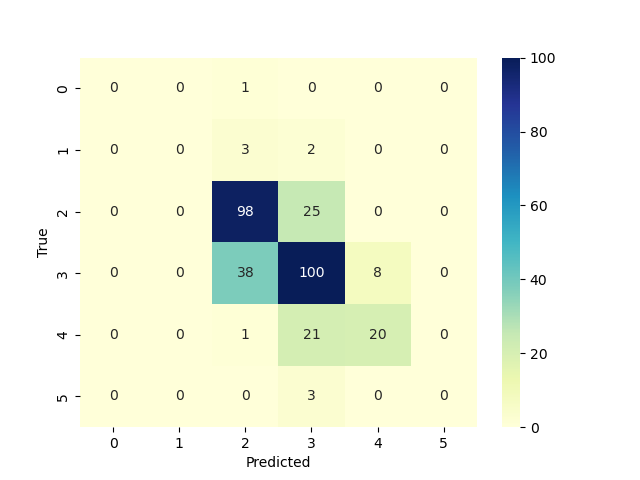
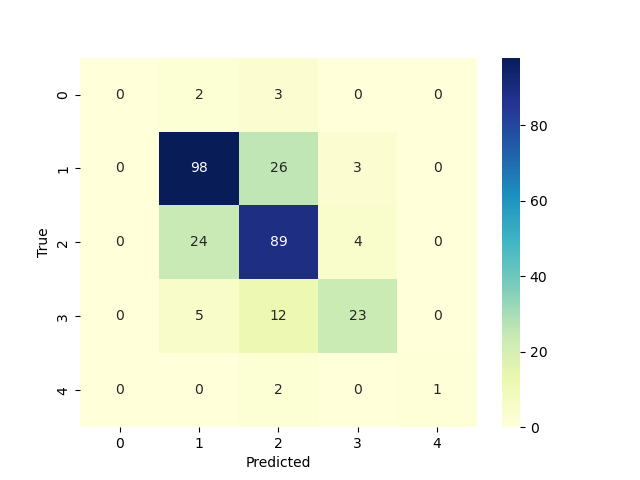
Classification update

diff --git a/supervised/classification.py b/supervised/classification.py
@@ -1,4 +1,6 @@
 import pandas as pd
+import numpy as np
+from scipy import stats
 from sklearn.model_selection import train_test_split
 from sklearn.ensemble import RandomForestClassifier
 from sklearn.metrics import accuracy_score, confusion_matrix
@@ -7,13 +9,17 @@ from sklearn.preprocessing import LabelEncoder
 import matplotlib.pyplot as plt
 import seaborn as sns
 
-data = pd.read_csv("winequality-white.csv")
+data = pd.read_csv("winequality-red.csv")
 
 encoder = LabelEncoder()
 data["quality"] = encoder.fit_transform(data["quality"])
 
 X = data[["fixedacidity","volatileacidity","citricacid","residualsugar","chlorides","freesulfurdioxide","totalsulfurdioxide","density","pH","sulphates","alcohol"]]
 y = data["quality"]
+
+z = np.abs(stats.zscore(X))
+X= X[(z < 3).all(axis=1)]
+y = y[(z < 3).all(axis=1)]
 
 X_train, X_test, y_train, y_test = train_test_split(X, y, test_size=0.2)
 

diff --git a/supervised/README.md b/supervised/README.md
@@ -2,9 +2,6 @@
 ## Regression
 In this experiment I used the Airbnb US 2020 data that includes teh following columns:
 <br>
-### Objective
-The objective of this experiment is to find the best model that predicts the price of the Airbnb rentals.
-<br><br>
 **Features:**
 
 |                     |                   |                                |
@@ -16,6 +13,10 @@ The objective of this experiment is to find the best model that predicts the pri
 | neighbourhood_group | minimum_nights    | city                           |
 | neighbourhood       | number_of_reviews |                                |
 
+### Objective
+The objective of this experiment is to find the best model that predicts the price of the Airbnb rentals.
+<br><br>
+### Results
 * Boxplot of the cleaned data (free of extreme outliers)
 
 ![HeatMap](img/Figure_2.png)
@@ -65,11 +66,57 @@ Function:  0.16491070972386887  * x + 129.00213300445
 * From the previous step we confirmed that the **"Calculated Host Listings Count"** appears as the best feature for the 
 **price** variable and with this combination we would get an accurate prediction.
 ## Classification
+In this experiment I used the wine quality dataset that includes the following
+columns:
+<br>
+**Features:**
+
+|                   |                    |
+|-------------------|--------------------|
+| fixedacidity      | totalsulfurdioxide | 
+| volatileacidity   | density            |
+| citricacid        | pH                 |
+| residualsugar     | sulphates          |
+| chlorides         | minimum_nights     |
+| freesulfurdioxide | quality            |
+
 
 ### Objective
+The objective of this is to generate models for wine quality dataset and find out the best one.
+### Results
+* I generated a heatmap of the trains and targets and got the following figure
+
 ![HeatMap](img/Classification-Figure_1.png)
+* after splitting the data into trainign and tests and initializing the modele
+```python
+X = data[["fixedacidity","volatileacidity","citricacid","residualsugar","chlorides","freesulfurdioxide","totalsulfurdioxide","density","pH","sulphates","alcohol"]]
+y = data["quality"]
+
+X_train, X_test, y_train, y_test = train_test_split(X, y, test_size=0.2)
+
+clf = RandomForestClassifier()
+
+clf.fit(X_train, y_train)
+
+y_pred = clf.predict(X_test)
+
+accuracy = accuracy_score(y_test, y_pred)
+```
 ![HeatMap](img/Classification-Figure_5.png)
+```text
+Accuracy: 0.7226027397260274
+Confusion matrix:
+ [[ 0  2  3  0  0]
+ [ 0 98 26  3  0]
+ [ 0 24 89  4  0]
+ [ 0  5 12 23  0]
+ [ 0  0  2  0  1]]
+```
+* Boxplot of the features:
+
 ![HeatMap](img/Classification-Figure_3.png)
+* Scatter Plott
+
 ![HeatMap](img/Classification-Figure_4.png)
 
 
